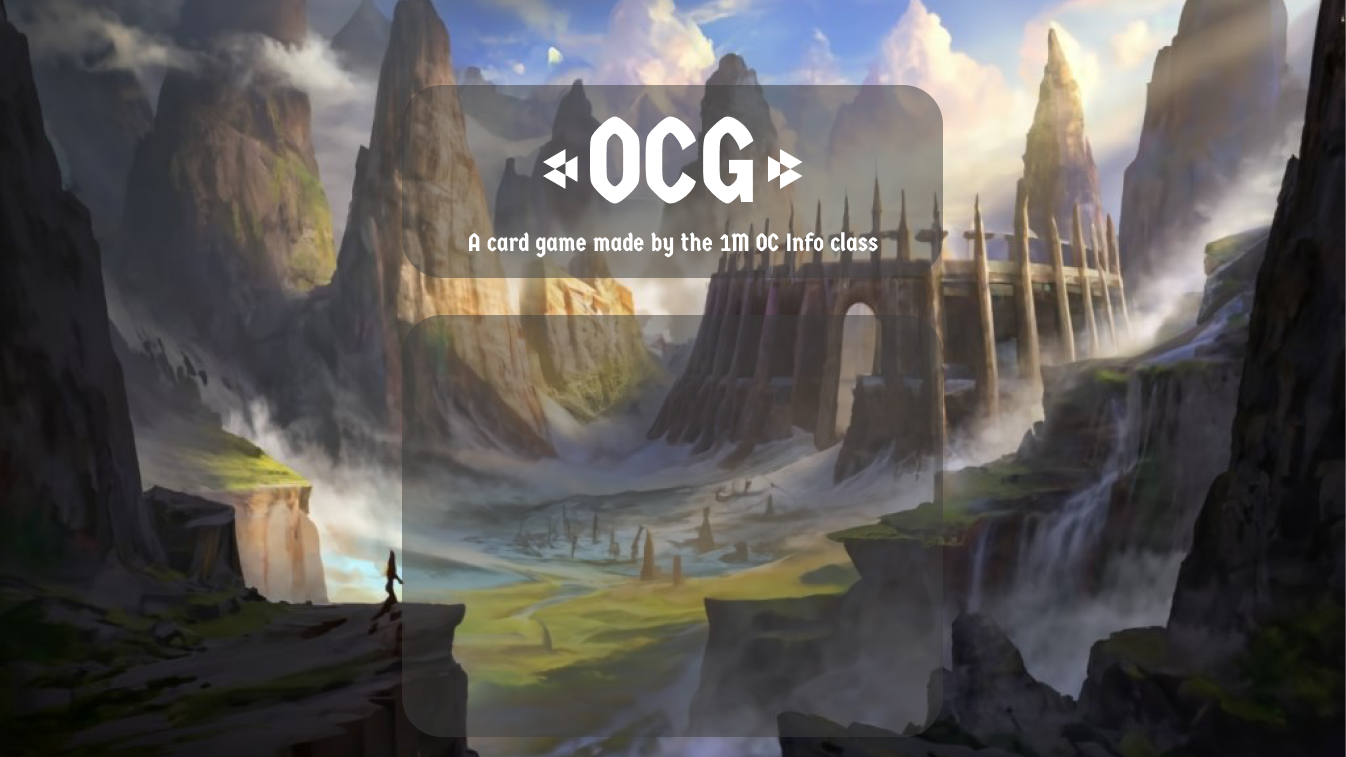
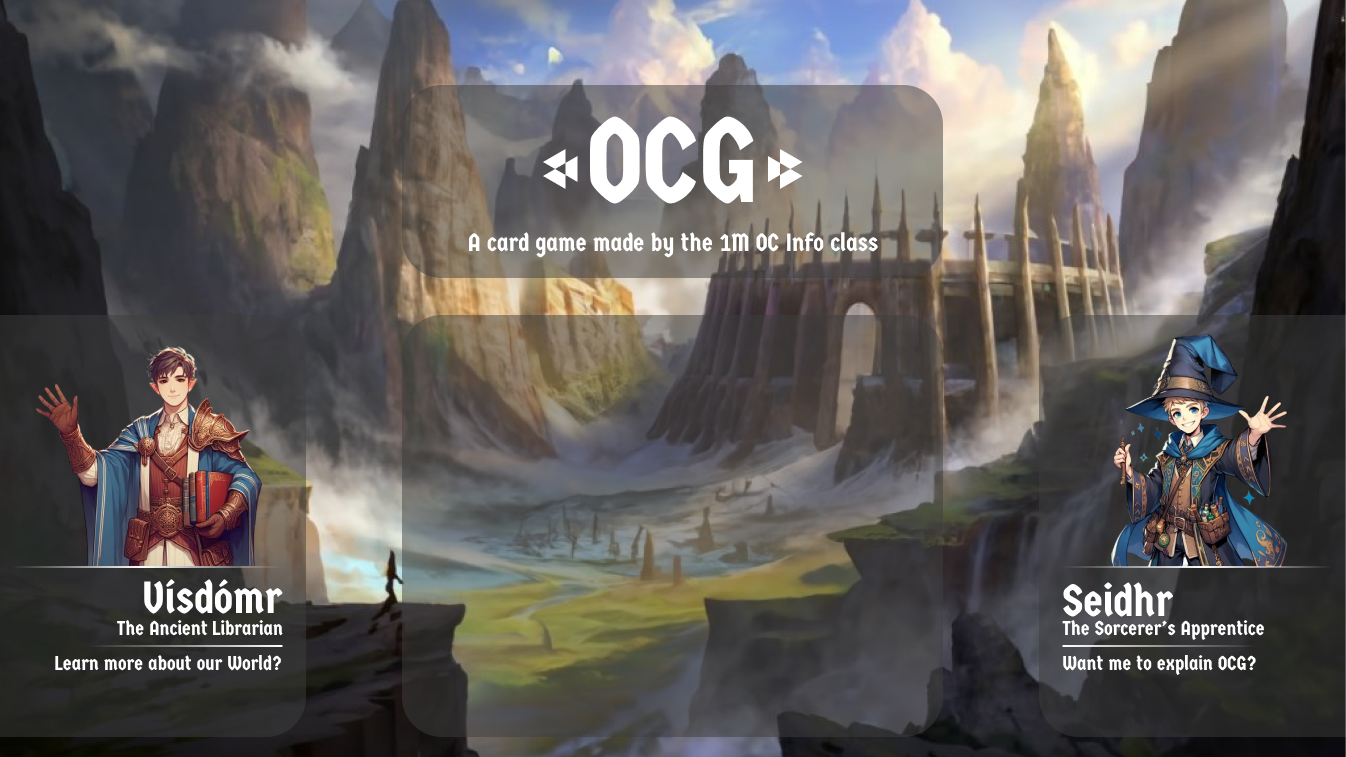
added air lobby updated credits + main menu added tutorial and lore buttons

Changed region(s): [[0.7489, 0.395, 1.0, 0.9723], [0.0, 0.4557, 0.2496, 0.9723], [0.0, 0.6988, 0.0312, 0.7596]]

diff --git a/ChaosCardGame/Assets/menu_assets.py b/ChaosCardGame/Assets/menu_assets.py
@@ -164,6 +164,37 @@ class MenuBackgrounds:
     bg_hand_menu_path = bg_dir + "hand_menu_empty.png"
     bg_hand_menu_image = pygame.image.load(bg_hand_menu_path)
 
+    bg_air_lobby_path = bg_dir + "air_lobby_empty.png"
+    bg_air_lobby_image = pygame.image.load(bg_air_lobby_path)
+
+    # Tutorial
+    bg_tutorial1_path = bg_dir + "tutorial1_empty.png"
+    bg_tutorial1_image = pygame.image.load(bg_tutorial1_path)
+
+    bg_tutorial2_path = bg_dir + "tutorial1_empty.png"
+    bg_tutorial2_image = pygame.image.load(bg_tutorial2_path)
+
+    bg_tutorial3_path = bg_dir + "tutorial1_empty.png"
+    bg_tutorial3_image = pygame.image.load(bg_tutorial3_path)
+
+    bg_tutorial4_path = bg_dir + "tutorial1_empty.png"
+    bg_tutorial4_image = pygame.image.load(bg_tutorial4_path)
+
+    bg_tutorial5_path = bg_dir + "tutorial1_empty.png"
+    bg_tutorial5_image = pygame.image.load(bg_tutorial5_path)
+
+    bg_tutorial6_path = bg_dir + "tutorial1_empty.png"
+    bg_tutorial6_image = pygame.image.load(bg_tutorial6_path)
+
+    bg_tutorial7_path = bg_dir + "tutorial1_empty.png"
+    bg_tutorial7_image = pygame.image.load(bg_tutorial7_path)
+
+    bg_tutorial8_path = bg_dir + "tutorial1_empty.png"
+    bg_tutorial8_image = pygame.image.load(bg_tutorial8_path)
+
+    bg_tutorial9_path = bg_dir + "tutorial1_empty.png"
+    bg_tutorial9_image = pygame.image.load(bg_tutorial9_path)
+
 
 @dataclass
 class MenuButtons:
@@ -225,6 +256,26 @@ class MenuButtons:
     # Place
     place_button_path = button_dir + "Place"
     place_button_image = transform_button_files(place_button_path)
+
+    # End Tutorial
+    endtutorial_button_path = button_dir + "EndTutorial"
+    endtutorial_button_image = transform_button_files(endtutorial_button_path)
+
+    # Next Tutorial
+    nexttutorial_button_path = button_dir + "NextTutorial"
+    nexttutorial_button_image = transform_button_files(nexttutorial_button_path)
+
+    # Skip Tutorial
+    skiptutorial_button_path = button_dir + "SkipTutorial"
+    skiptutorial_button_image = transform_button_files(skiptutorial_button_path)
+
+    # Start Tutorial
+    starttutorial_button_path = button_dir + "StartTutorial"
+    starttutorial_button_image = transform_button_files(starttutorial_button_path)
+
+    # View Lore
+    viewlore_button_path = button_dir + "ViewLore"
+    viewlore_button_image = transform_button_files(viewlore_button_path)
 
 
 @dataclass
